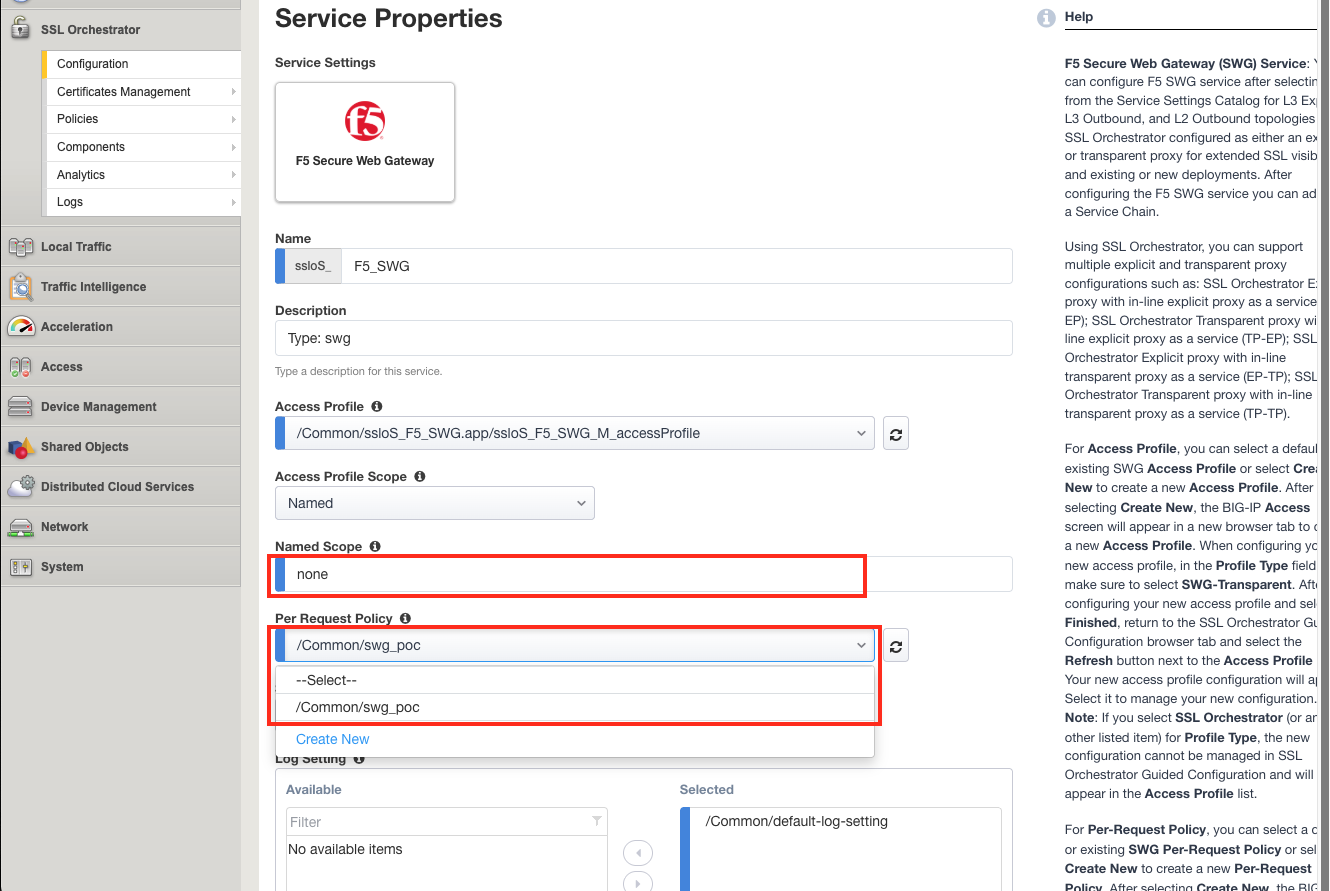
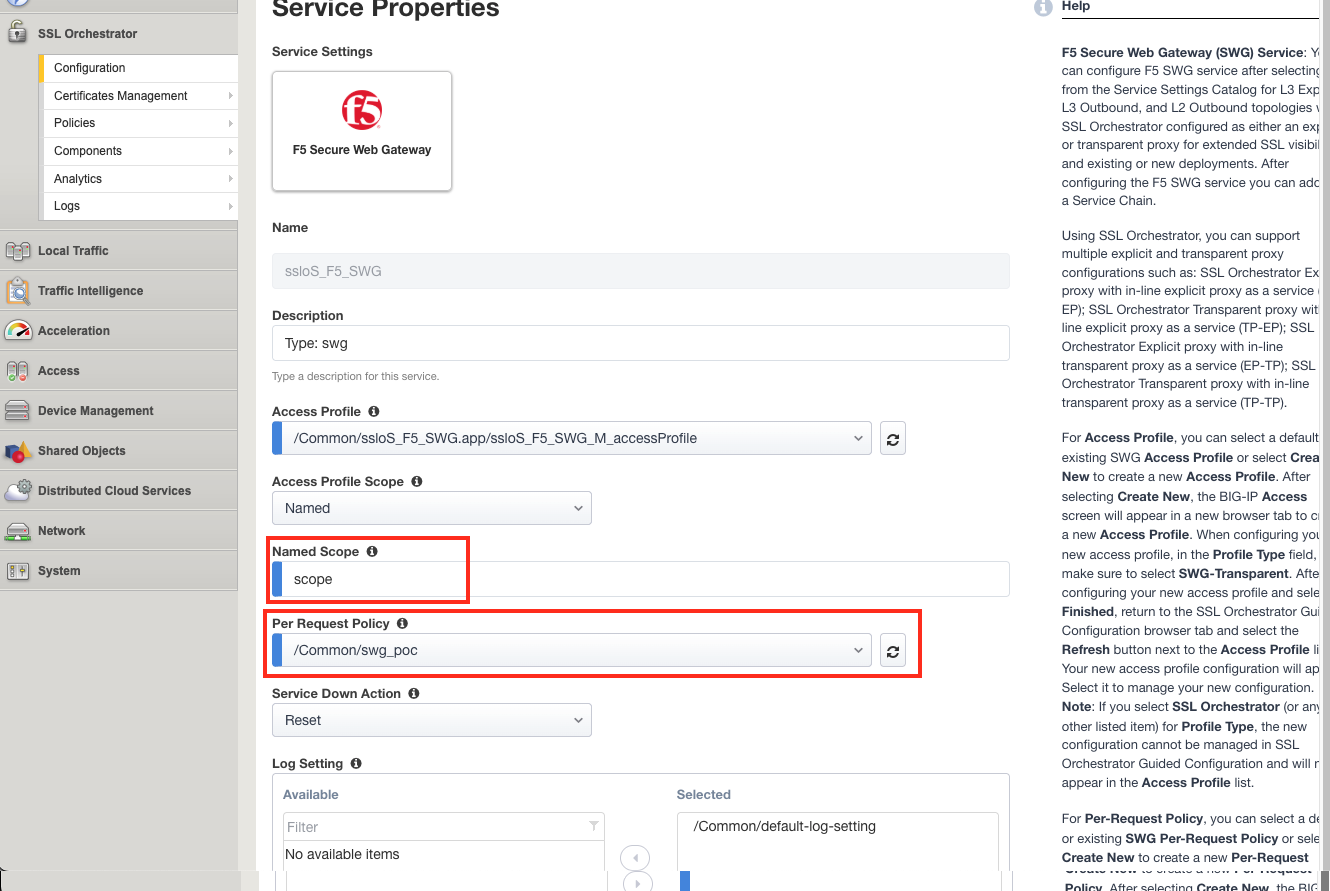
l4
mo4

diff --git a/labs/swg-efproxy/lab_4_swg_configuration.rst b/labs/swg-efproxy/lab_4_swg_configuration.rst
@@ -163,7 +163,7 @@ Task 3 - SSLO / SWG Configuration
             :align: center
             :alt: SSLO Add Service F5 SWG
 
-    #. In the **F5 Secure Web Gateway Service properties** page, for **Named Scope** type **"none"**. For the Per Request Policy, select the policy we created earlier; **"swg_poc"**. Then click the **Save** button to save the settings for this service.
+    #. In the **F5 Secure Web Gateway Service properties** page, for **Named Scope** type the word **"scope"** in the field. For the Per Request Policy, click the down arrow and select the policy we created earlier; **"swg_poc"**. Then click the **Save** button to save the settings for this service.
 
         .. image:: ./images/l-sslo-service-add-f5-prp.png
             :align: center
@@ -179,13 +179,13 @@ Task 3 - SSLO / SWG Configuration
 
     #. In the **Security Policy** page, click the **Save & Next** button to continue.
 
-    #. In the **Interception Rule** page, specify the IPV4 address, we will use 10.1.10.30 for this lab. Select **f5-aws-dns** the DNS Resolver. Then under VLANs, select Client-vlan and the out-vlan, and click the **>** button to move them into the **Selected** list. Leave everything else default and scroll down and click the **Save & Next** button to continue.
+    #. In the **Interception Rule** page, specify the **Proxy Server Settings** IPV4 address as **10.1.10.30** for this lab. Select **f5-aws-dns** the DNS Resolver. Then under VLANs, select **client-vlan** and the **out-vlan**, and click the **>** button to move them into the **Selected** list. Leave everything else default and scroll down and click the **Save & Next** button to continue.
 
         .. image:: ./images/l-sslo-interception-rule.png
             :align: center
             :alt: SSLO Interception Rule
 
-    #. In the **Egress Settings** page, select **Auto Map** for Manage SNAT Settings.  Then click the **Save & Next** button to continue.
+    #. In the **Egress Settings** page, select **Auto Map** for **Manage SNAT** Settings.  Then click the **Save & Next** button to continue.
 
     #. In the **Log Settings** page, accept the defaults and click the **Save & Next** button to continue.
 
@@ -206,15 +206,15 @@ Task 4 - Configure the Win 11 Client to use the Explicit Proxy on the BIG-IP SSL
 
     #. On the Windows 11 client, open the **Proxy Settings** again by searching for it in the Start Menu.
 
-    #. In the Proxy Settings, turn on the **Use a proxy server** setting. For the Address, enter the IP address specified in the Interception Rule of the SSLO configuration; in this case, 10.1.10.30. Ensure that the Port is **3128**, Then click **Save** to save the proxy settings.
+    #. In the Proxy Settings, turn on the **Use a proxy server** setting. For the Address, enter the IP address specified in the Interception Rule of the SSLO configuration; in this case, **10.1.10.30**. Ensure that the Port is **3128**, Then click **Save** to save the proxy settings.
 
-        .. image:: ./images/l-sslo-proxy-settings.png
+        .. image:: ./images/l-sslo-win-proxy-settings.png
             :align: center
             :alt: Proxy Settings
 
-    #. Now open Chrome or Firefox and try to browse to the website that is categorized under the Sports category, such as **espn.com**. You should see that the website is blocked by the SWG with the default block page since we configured the URL filter to block the Sports category and applied that URL filter in our Per Request Policy which is being used by the SWG service in our SSLO configuration.
+    #. Now open Chrome or Firefox and try to browse to the website that is categorized under the Sports category, such as **espn.com**. You should see that the website is blocked by the SWG with the default block page since we configured the URL filter to block the **Sports** category and applied that URL filter in our Per Request Policy which is being used by the SWG service in our SSLO configuration.
 
-        .. image:: ./images/l-sslo-proxy-block.png
+        .. image:: ./images/l-sslo-win-block.png
             :align: center
             :alt: Proxy Block
 
